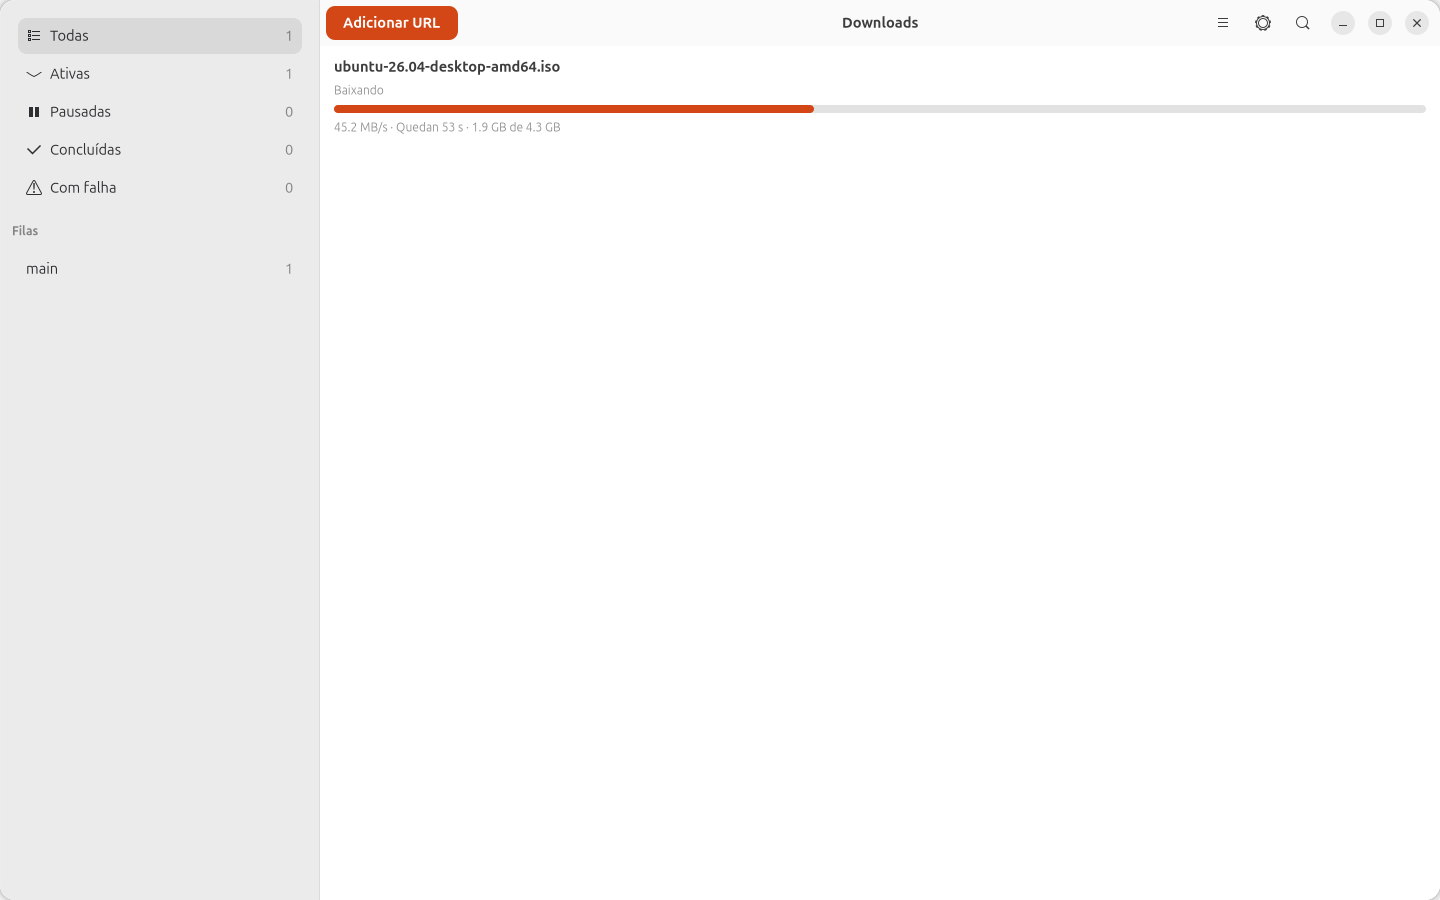
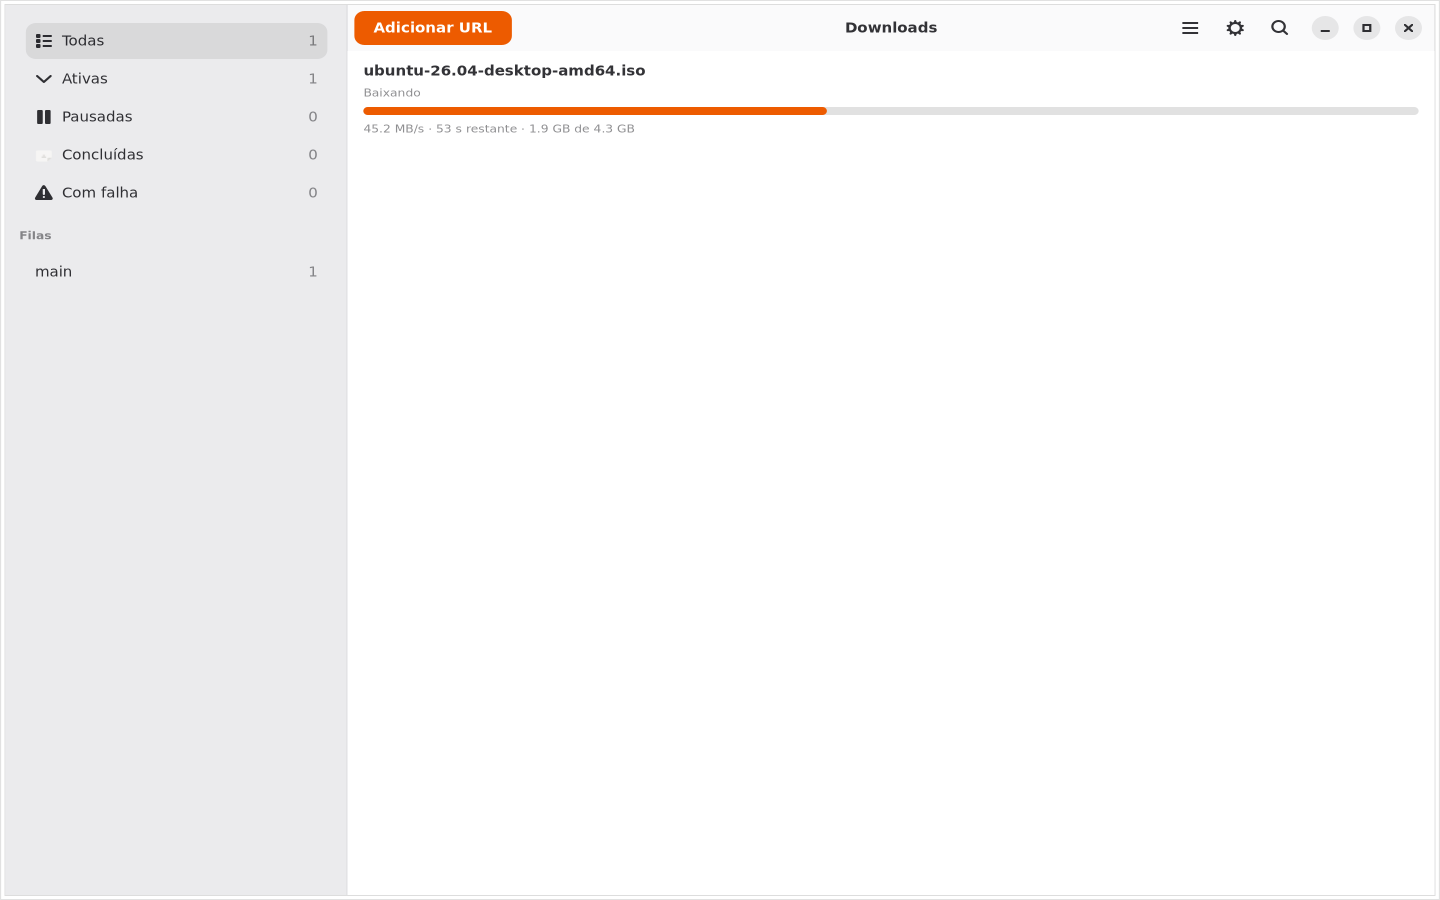
fix(gui): hide the loading spinner once the stack leaves Loading
The previous fix stopped the animation but left the loading page as the stack's
visible child, and GTK keeps painting the static spinner glyph even when
is_spinning() is false. The stack now switches first and the spinner is stopped
and hidden afterwards, in both refill and set_error.

loading_spinner_visible() exposes the widget state and the action matrix asserts
it is false in Ready and after a filter change; the light/dark and pt-BR captures
are regenerated without the glyph.

diff --git a/crates/segmenta-gui/src/window.rs b/crates/segmenta-gui/src/window.rs
@@ -323,6 +323,14 @@ impl SegmentaWindow {
         self.0.search_bar.set_search_mode(visible);
     }
 
+    /// Whether the loading spinner is still painting (regression for the stuck
+    /// "Conectando…" glyph).
+    pub fn loading_spinner_visible(&self) -> bool {
+        // `is_spinning()` turns false when stopped even though GTK still paints the
+        // static glyph, so visibility is the honest signal.
+        self.0.loading_spinner.is_visible()
+    }
+
     /// Whether the search bar is open.
     pub fn search_active(&self) -> bool {
         self.0.search_bar.is_search_mode()
@@ -1163,7 +1171,7 @@ impl Inner {
             eprintln!("segmenta-gui: view -> Loading");
         }
         *self.view_state.borrow_mut() = ViewState::Loading;
-        self.loading_page.set_visible(true);
+        self.loading_spinner.set_visible(true);
         self.loading_spinner.start();
         self.stack.set_visible_child_name("loading");
     }
@@ -1171,11 +1179,15 @@ impl Inner {
     /// Stop the spinner and hide the loading page; a hidden page must not keep an
     /// animation ticking behind the list.
     fn stop_loading(&self) {
+        // Stop the animation and hide the glyph. The page itself is a stack child and
+        // its visibility belongs to `GtkStack`; hiding it by hand confused the stack
+        // and left the spinner painted behind the list.
         self.loading_spinner.stop();
-        self.loading_page.set_visible(false);
+        self.loading_spinner.set_visible(false);
     }
 
     fn set_error(&self, message: String) {
+        self.stack.set_visible_child_name("error");
         self.stop_loading();
         if crate::client::trace_enabled() {
             eprintln!("segmenta-gui: view -> Error({message})");
@@ -1189,7 +1201,6 @@ impl Inner {
             tr(here, Msg::ErrorBody),
             tr(here, Msg::ErrorCommand)
         )));
-        self.stack.set_visible_child_name("error");
     }
 
     /// Retry the connection and reload the view; the error button uses this.
@@ -1262,16 +1273,16 @@ impl Inner {
             ViewState::Empty
         };
         self.empty_page.set_title(filter.empty_title());
-        // Leaving Loading must also stop the spinner: the widget kept animating
-        // behind the list and looked like a stuck "Conectando…".
-        if !matches!(state, ViewState::Loading) {
-            self.stop_loading();
-        }
         match state {
             ViewState::Empty => self.stack.set_visible_child_name("empty"),
             ViewState::Ready => self.stack.set_visible_child_name("list"),
             ViewState::Error(_) => self.stack.set_visible_child_name("error"),
             ViewState::Loading => self.stack.set_visible_child_name("loading"),
+        }
+        // Leaving Loading must stop the spinner *after* the stack switched, otherwise
+        // the stopped glyph stays painted behind the list.
+        if !matches!(state, ViewState::Loading) {
+            self.stop_loading();
         }
         *self.view_state.borrow_mut() = state;
     }

diff --git a/crates/segmenta-gui/tests/actions.rs b/crates/segmenta-gui/tests/actions.rs
@@ -215,6 +215,11 @@ fn sidebar_filters_and_counts_are_real() {
             Duration::from_secs(5)
         ));
 
+        // A Ready list must not leave the loading spinner painting.
+        assert!(
+            !window.loading_spinner_visible(),
+            "the loading spinner is still visible in Ready"
+        );
         let counts = window.counts();
         assert_eq!(counts.all, 3);
         assert_eq!(counts.active, 1);
@@ -223,6 +228,7 @@ fn sidebar_filters_and_counts_are_real() {
         assert_eq!(counts.failed, 0);
 
         window.set_filter(Filter::Paused);
+        assert!(!window.loading_spinner_visible());
         assert_eq!(window.rows().len(), 1);
         assert_eq!(window.rows()[0].task_id, "c");
         window.set_filter(Filter::Failed);

diff --git a/docs/qa/segmenta-0.0.2-live.md b/docs/qa/segmenta-0.0.2-live.md
@@ -68,3 +68,17 @@ watch -n 10 cat docs/qa/segmenta-0.0.2-live.md
 - Puertas locales: `cargo fmt --check`, `clippy -D warnings`, `cargo test --workspace` y la
   suite GUI bajo Xvfb en verde; `check-package.sh` OK (10/10 paths, AppStream y desktop válidos).
 - **Sin publicar**: pendiente la tercera instalación/prueba remota del usuario.
+
+## Cuarto candidato (spinner de carga)
+
+- Causa: la página de carga seguía siendo el hijo visible del `GtkStack` cuando se
+  detenía el spinner; GTK pinta el glifo estático aunque `is_spinning()` sea falso.
+- Fix: primero se cambia el hijo del stack y después se detiene y **oculta** el spinner
+  (`loading_spinner.set_visible(false)`). `loading_spinner_visible()` expone el estado y
+  `tests/actions.rs` exige que sea `false` en Ready y tras cambiar de filtro.
+- Capturas `docs/qa/screenshots/0.0.2-{light,dark}.png` (es) y `0.0.2-pt-light.png` (pt-BR)
+  regeneradas sin el indicador; `--screenshots` sigue exigiendo `Ready` con filas.
+- Paquete: `dist/segmenta_0.0.2-1_amd64.deb` — 3.930.764 B, sha256
[1 lines of base64/hex data omitted]
+- Puertas: fmt, clippy `-D warnings`, `cargo test --workspace` (37 suites) y
+  `check-package.sh` (10/10, AppStream/desktop válidos) en verde. **Sin publicar.**
